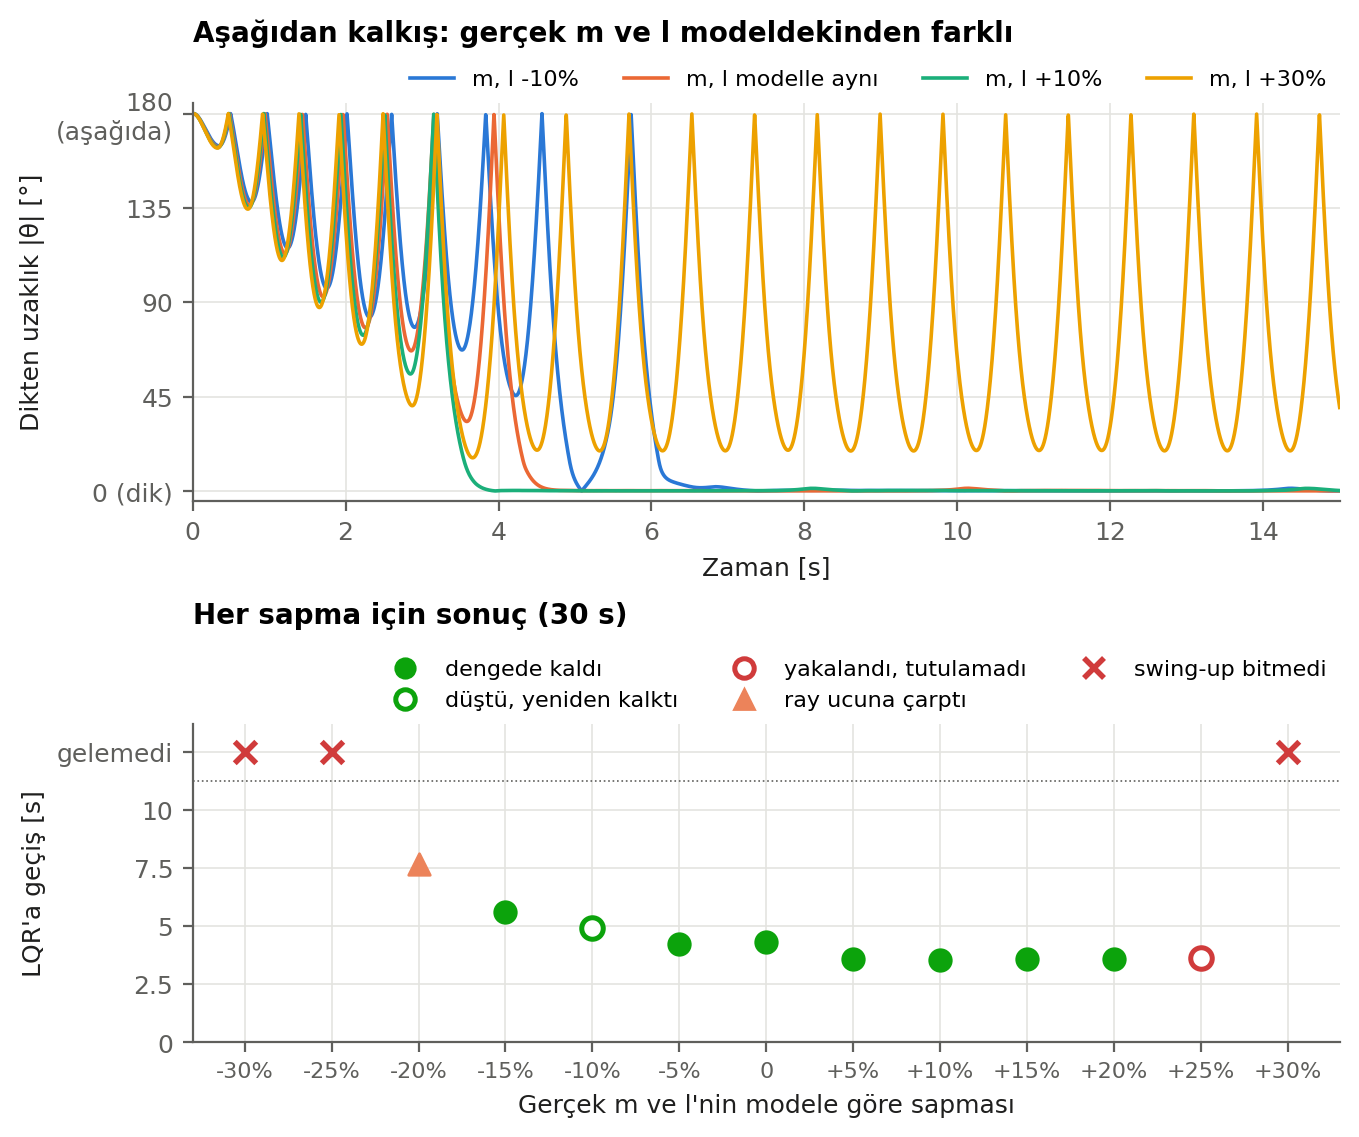
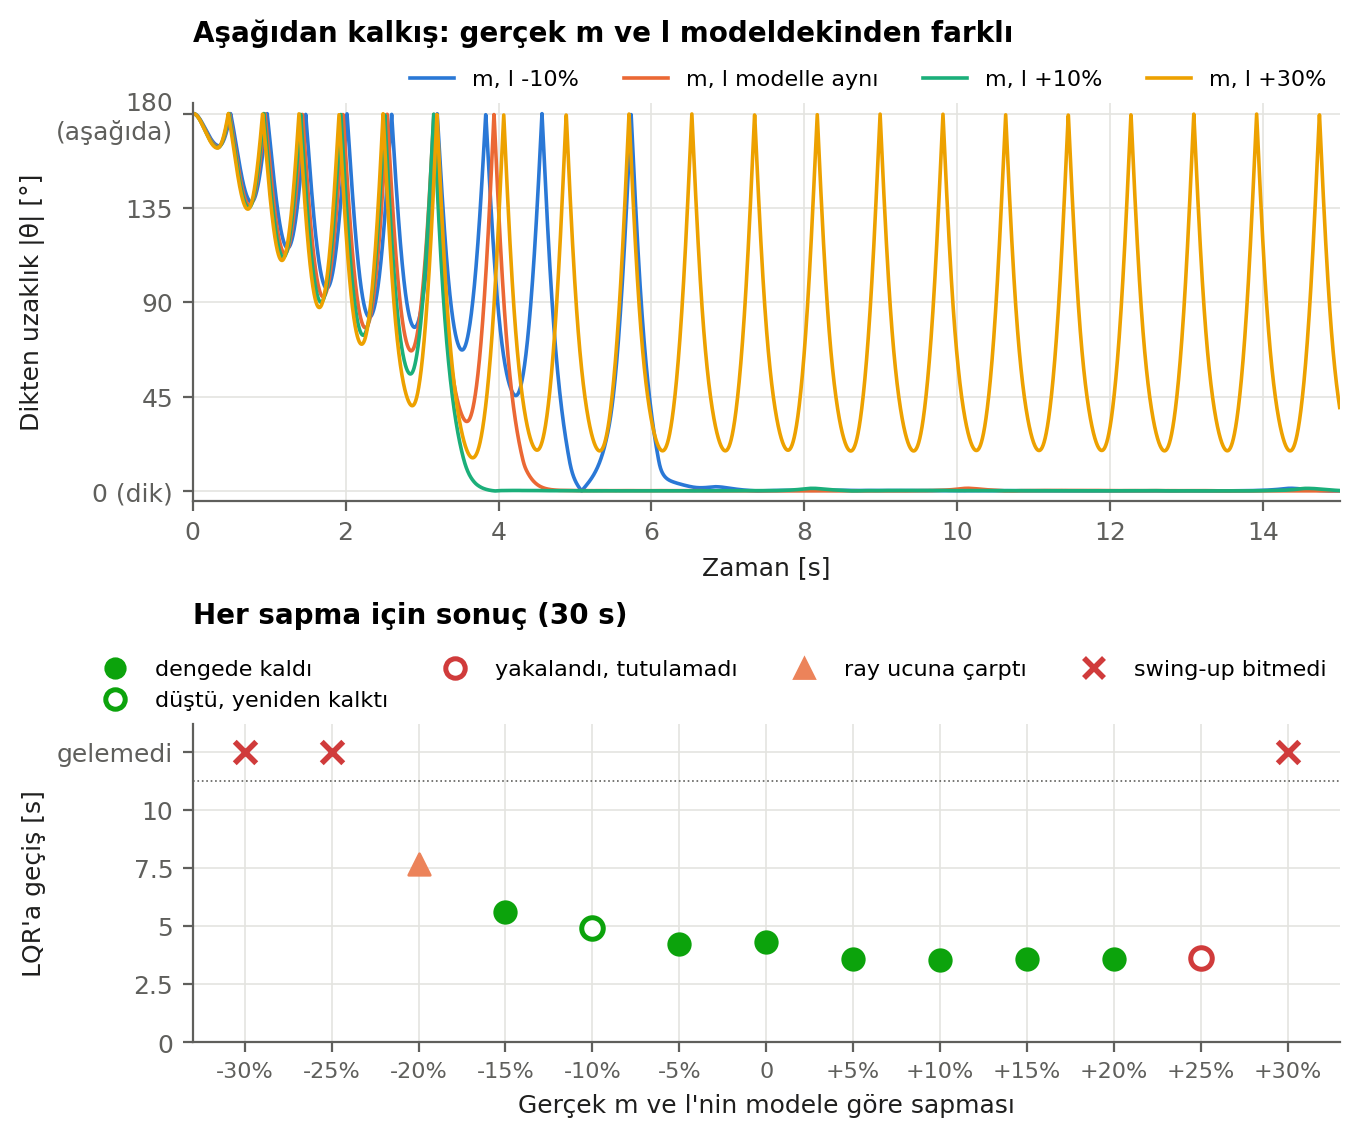
PR #45 inceleme 5. tur: 'kararsız bölge' yazısı yakın görünümde, zoom kararsız kutbu kapsar, lejant en çok 2 satır

Changed region(s): [[0.2472, 0.5541, 0.7417, 0.6464], [0.0618, 0.5849, 0.2472, 0.6464]]

diff --git a/tools/rapor_sekilleri.py b/tools/rapor_sekilleri.py
@@ -237,6 +237,7 @@ def fig_poles(S: Setup, out: Path):
     near = [abs(z.real) for z in allp if abs(z.real) <= near_lim]
     zoom = max(8.0, 1.6 * max(near, default=0.0))
     zoom = min(zoom, 0.8 * abs(float(allp.real.min())) * 1.12)
+    zoom = max(zoom, 1.4 * float(ol.real.max()))       # kararsız kutup yakın görünümün içinde kalsın
     im = max(1.0, 1.3 * float(np.abs(np.concatenate([ol.imag, cls.imag])).max()))
     for ax, full in ((a1, True), (a2, False)):
         ax.axhline(0, color=INK2, lw=0.6)
@@ -262,7 +263,8 @@ def fig_poles(S: Setup, out: Path):
     a1.set_ylabel("Sanal kısım [rad/s]")
     a1.set_xlim(min(np.concatenate([ol.real, cls.real])) * 1.12, max(8.0, max(ol.real) * 1.5, zoom * 0.75 * 1.05))
     a1.axvspan(-zoom, zoom * 0.75, facecolor="none", edgecolor=INK2, lw=0.8, ls="--")
-    a1.text(0.98, 0.04, "kararsız\nbölge →", transform=a1.transAxes, ha="right", fontsize=7, color=INK2)
+    # yazı yakın görünümdeki geniş kararsız bölgenin içine (sol panelde çizgilerle çakışıyordu)
+    a2.text(0.375 * zoom, -0.9 * im, "kararsız bölge", ha="center", va="bottom", fontsize=7, color=INK2)
     a1.set_title("s-düzlemi")
     a2.set_title(f"Yakın görünüm (kesikli çerçeve)")
     h, lab = a2.get_legend_handles_labels()
@@ -294,8 +296,8 @@ def fig_mismatch(S: Setup, out: Path):
     seen = {("ok" if v[3] in ("BAŞARILI", "SINIRDA") else v[3] if v[3] in kinds else "fail") for v in res.values()}
     order = [k for k in kinds if k in seen]
     h = [plt.Line2D([], [], ls="", ms=7, **kinds[k][0]) for k in order]
-    ncol = len(order) if len(order) <= 4 else 3
-    two_rows = len(order) > ncol
+    ncol = len(order) if len(order) <= 4 else 4
+    two_rows = len(order) > ncol                         # en çok 7 tür → en çok 2 satır
     fig = plt.figure(figsize=(7.4, 6.1 if two_rows else 5.8))
     gs = fig.add_gridspec(2, 1, height_ratios=(1.25, 1.0), hspace=0.62 if two_rows else 0.42)
     a1 = fig.add_subplot(gs[0])
